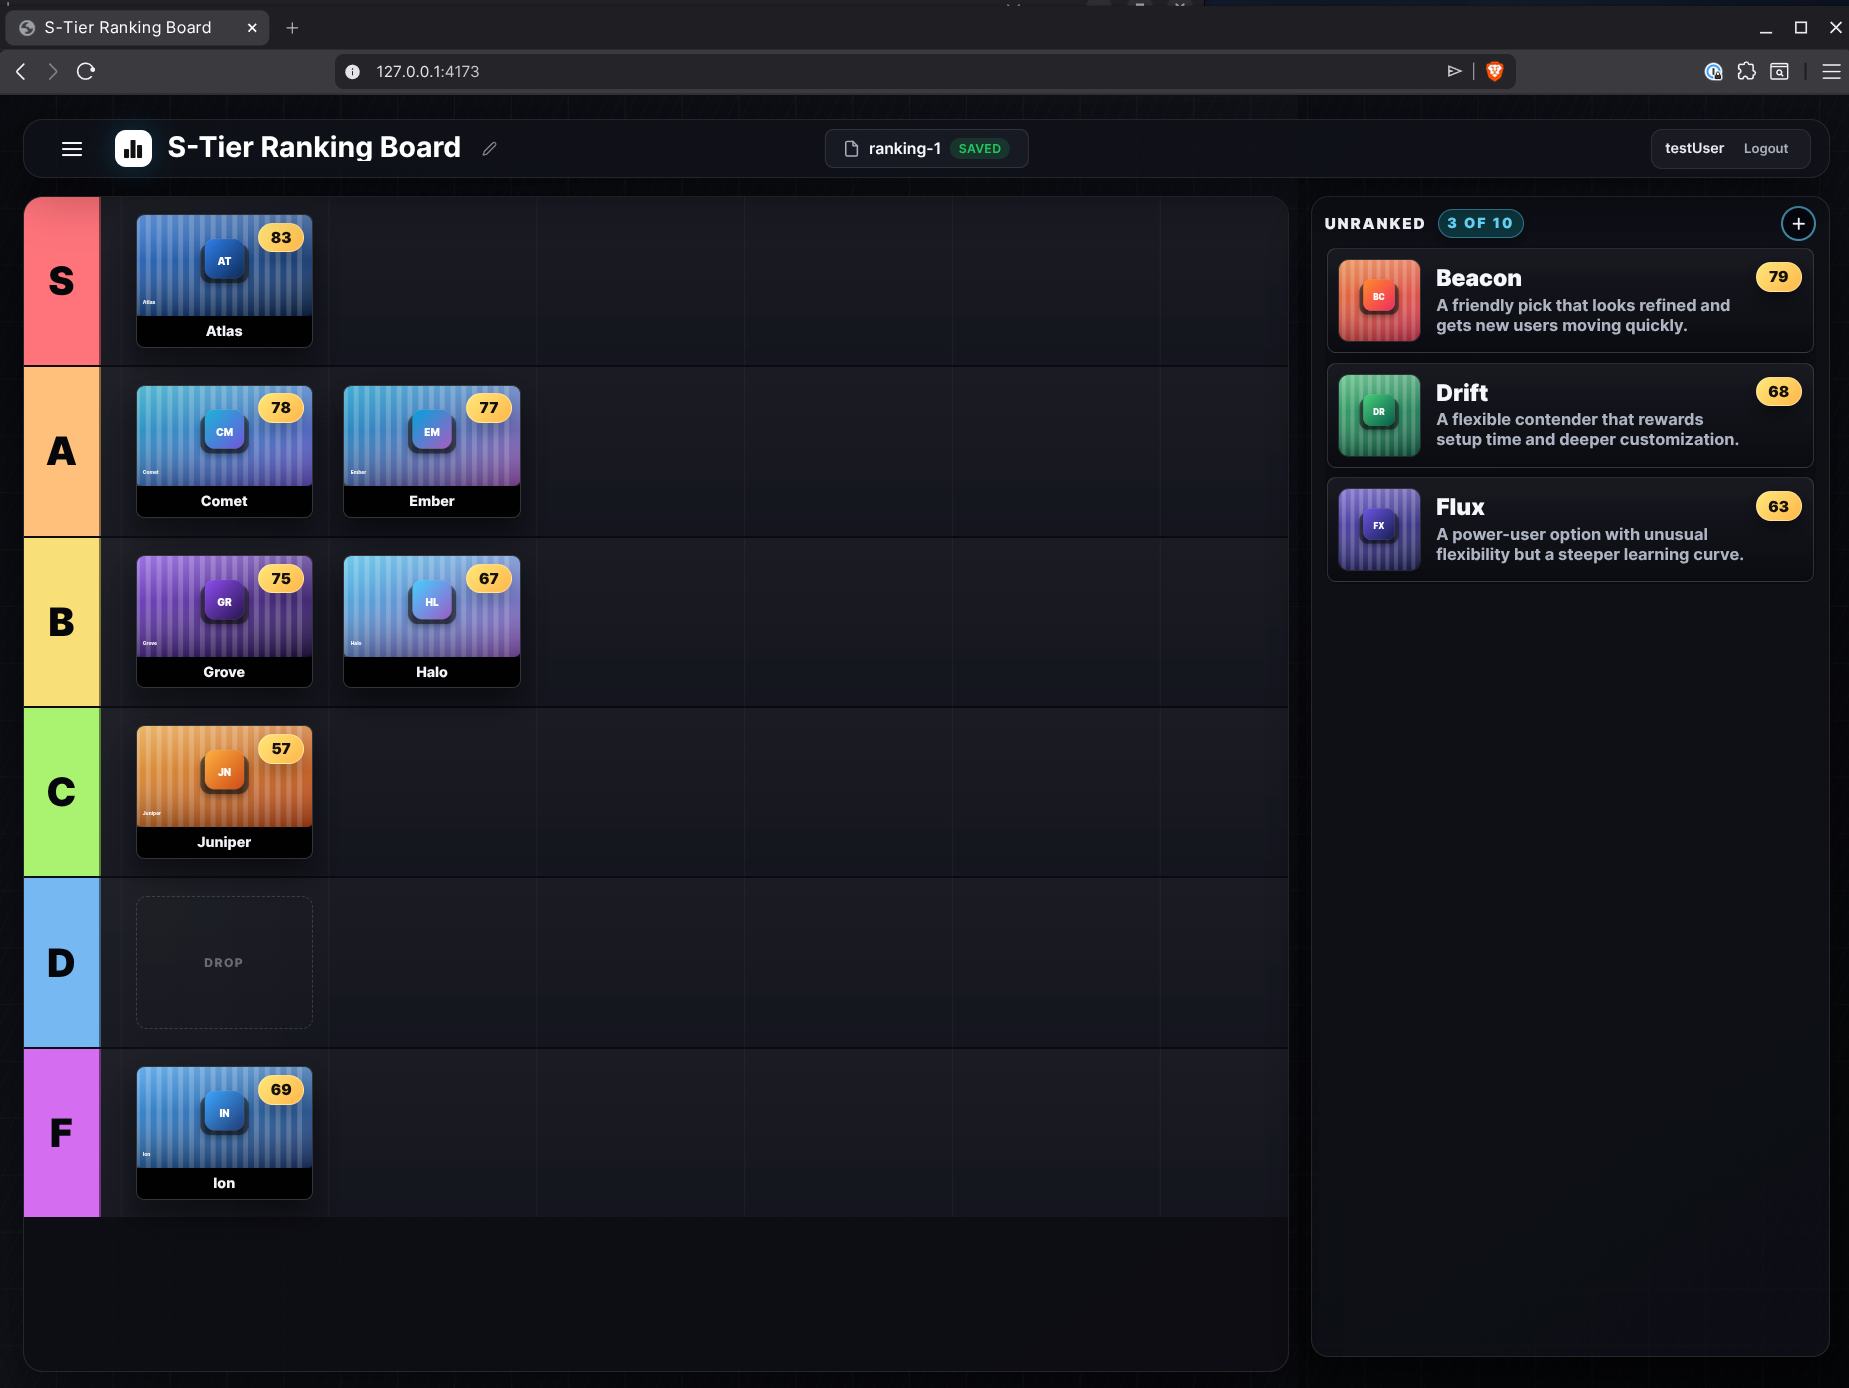
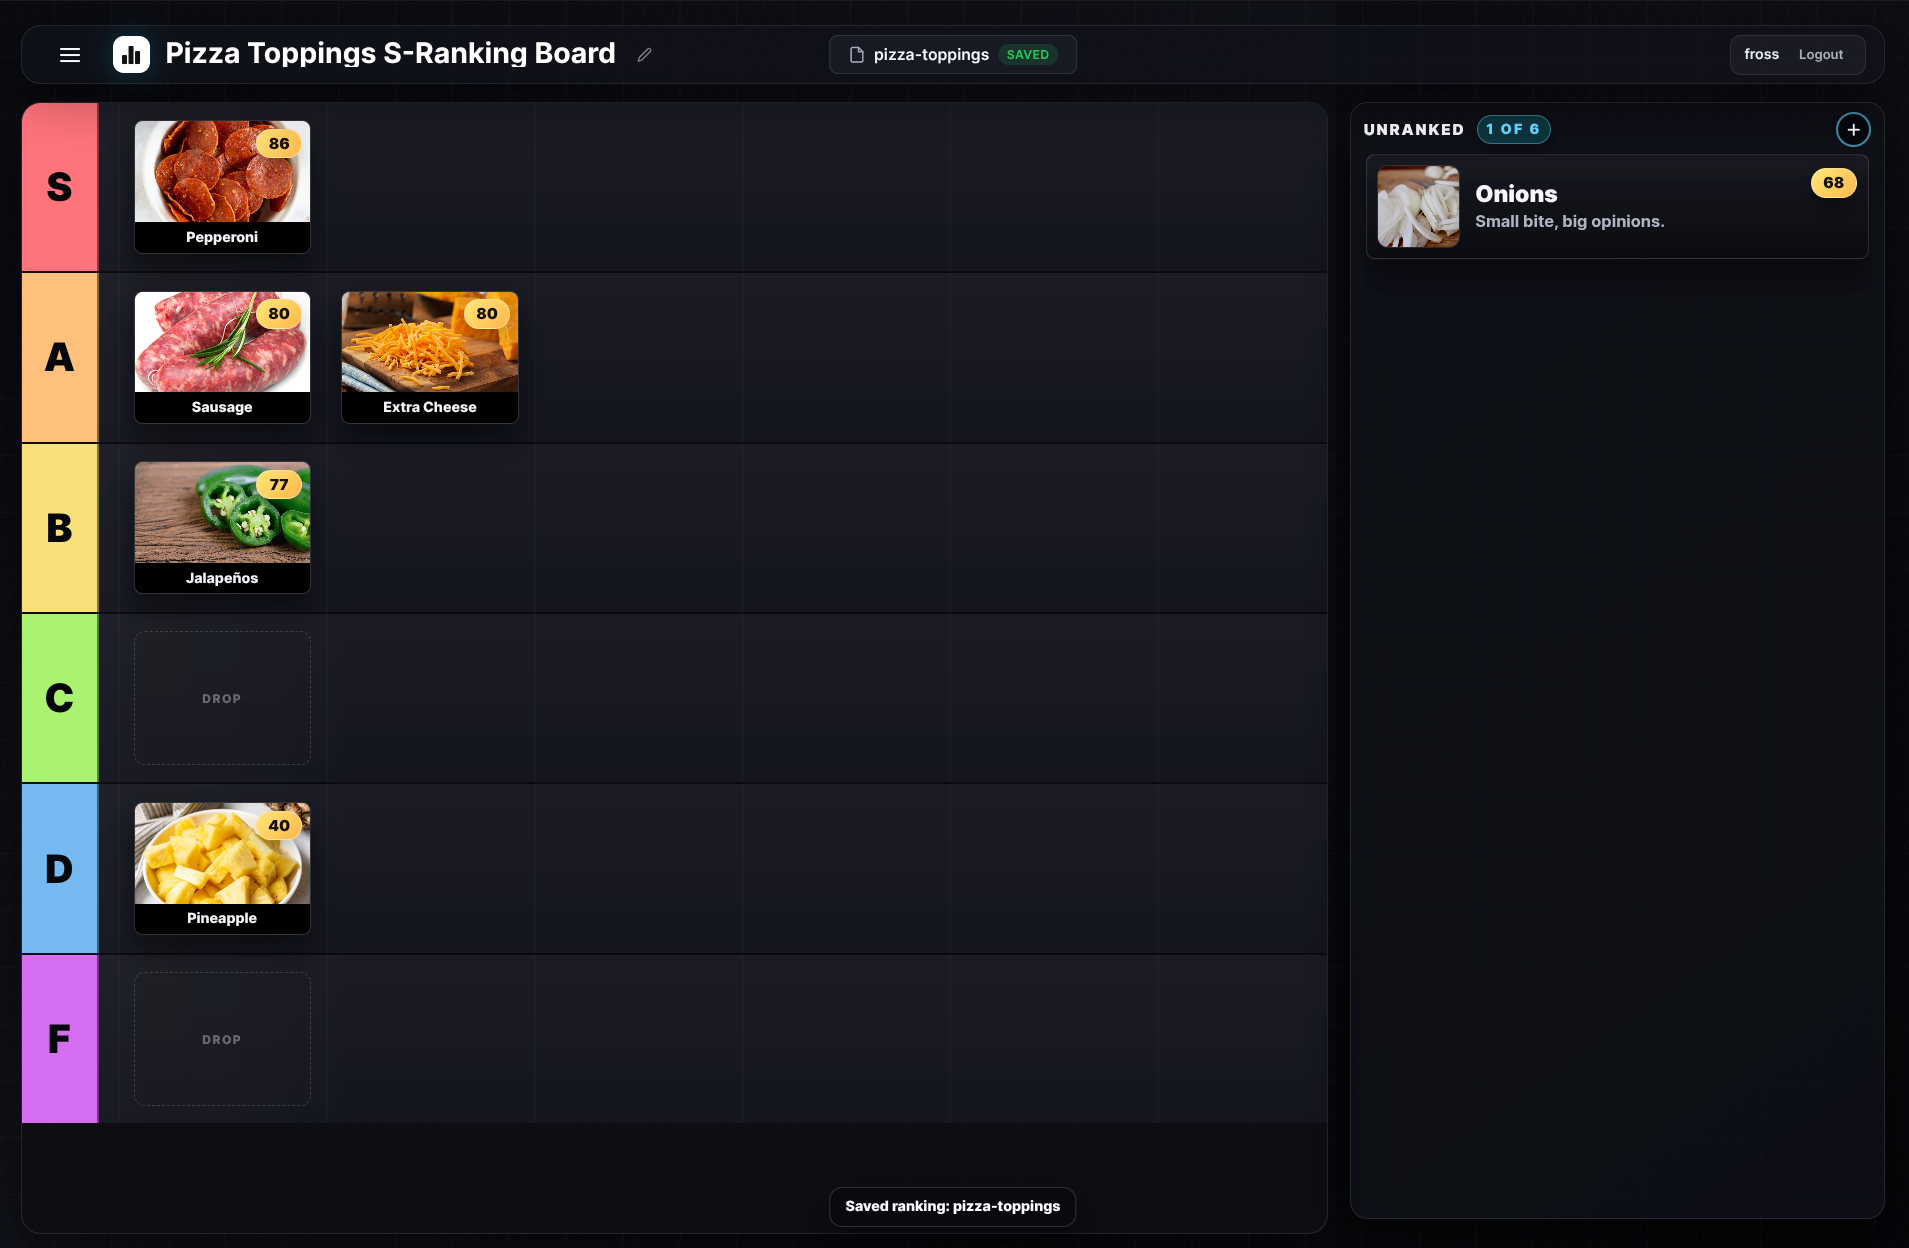
update: Updates readme and screenshots

diff --git a/README.md b/README.md
@@ -13,7 +13,56 @@ A browser-based app for ranking candidates into tiers using weighted scoring cri
 - **Candidate management** — Add, edit, and delete candidates with image upload
 - **Multiple rankings** — Save, load, export, import, and delete named rankings
 - **In-browser configuration** — Edit tiers, scoring criteria, and score ranges without touching config files
+- **AHP weight calculator** — Determine criteria weights through pairwise comparisons using the Analytic Hierarchy Process instead of manually entering numbers
+- **Side-by-side comparison** — Drag one candidate onto another to open a comparison modal with images, descriptions, and full score tables
+- **Shareable read-only links** — Generate a unique URL to share any ranking board — recipients can view tiers, candidates, and scores without an account
+- **Undo (Ctrl+Z)** — Revert your most recent tier move, score change, or AHP adjustment with a single keystroke
+- **Keyboard shortcuts** — Ctrl+S (Cmd+S on Mac) to save the current ranking
 - **Auto-save** — Changes are saved automatically as you work
+
+![Candidate Comparison screenshot](docs/screenshot-comparison-v1.png)
+
+## Configuration
+
+The app ships with a default configuration. Open the menu (burger icon, top-left) to:
+
+| Action | Description |
+|--------|-------------|
+| **Edit Criteria** | Add, remove, and reorder scoring facets. Set weights and the score range (min/max). Use the calculator icon to open the AHP weight calculator for pairwise comparison-based prioritization. |
+| **Edit Tiers** | Add, remove, and reorder tier lanes. |
+| **Reset Scores & Rankings** | Reset all scores and move candidates back to the unranked pool. |
+
+![Edit Criteria Screenshot](docs/screenshot-edit-criteria-v2.png)
+
+### AHP Calculator
+
+Determine criteria weights through pairwise comparisons using the Analytic Hierarchy Process instead of manually entering numbers.
+
+![AHP Calculator Screenshot](docs/screenshot-ahp-calculator-v1.png)
+
+## Ranking Management
+
+Use the **File** menu (burger icon, top-left) to manage rankings:
+
+| Action | Description |
+|--------|-------------|
+| **New Ranking** | Start a fresh ranking with default tiers. Prompts for a name. |
+| **Open** | Browse and load any saved ranking. |
+| **Save** | Save changes to the current ranking. |
+| **Save As** | Save the current ranking under a new name. |
+| **Download File** | Download a ZIP containing the ranking data and all candidate images. |
+| **Upload File** | Load a ranking from a previously exported ZIP file. |
+| **Delete File** | Remove a saved ranking. |
+| **Share File** | Generate a shareable read-only link. Recipients can view the full ranking board with needing an account.|
+
+![Share Ranking screenshot](docs/screenshot-share-ranking-v1.png)
+
+## Keyboard Shortcuts
+
+| Shortcut | Action |
+|----------|--------|
+| **Ctrl+Z** (Cmd+Z on Mac) | Undo the most recent tier move, score change, or AHP slider adjustment |
+| **Ctrl+S** (Cmd+S on Mac) | Save the current ranking (only triggers when there are unsaved changes) |
 
 ## Self-Hosted Deployment
 
@@ -60,34 +109,4 @@ docker compose up -d
 ```
 
 Make sure the port `4173` has been opened in the firewall
-
-## Configuration
-
-The app ships with a default configuration. Open the menu (burger icon, top-left) to:
-
-| Action | Description |
-|--------|-------------|
-| **Edit Criteria** | Add, remove, and reorder scoring facets. Set weights and the score range (min/max). |
-| **Edit Tiers** | Add, remove, and reorder tier lanes. |
-| **Reset Scores & Rankings** | Reset all scores and move candidates back to the unranked pool. |
-
-Changes are applied immediately and saved to the current ranking.
-
-![Tier Ranking App screenshot](docs/screenshot-edit-criteria-v2.png)
-
-## Ranking Management
-
-Use the **File** menu (burger icon, top-left) to manage rankings:
-
-| Action | Description |
-|--------|-------------|
-| **New Ranking** | Start a fresh ranking with default tiers. Prompts for a name. |
-| **Open** | Browse and load any saved ranking. |
-| **Save** | Save changes to the current ranking. |
-| **Save As** | Save the current ranking under a new name. |
-| **Download File** | Download a ZIP containing the ranking data and all candidate images. |
-| **Upload File** | Load a ranking from a previously exported ZIP file. |
-| **Delete File** | Remove a saved ranking. |
-
-Rankings auto-save after any change. If no name has been set, they save as "untitled".
 